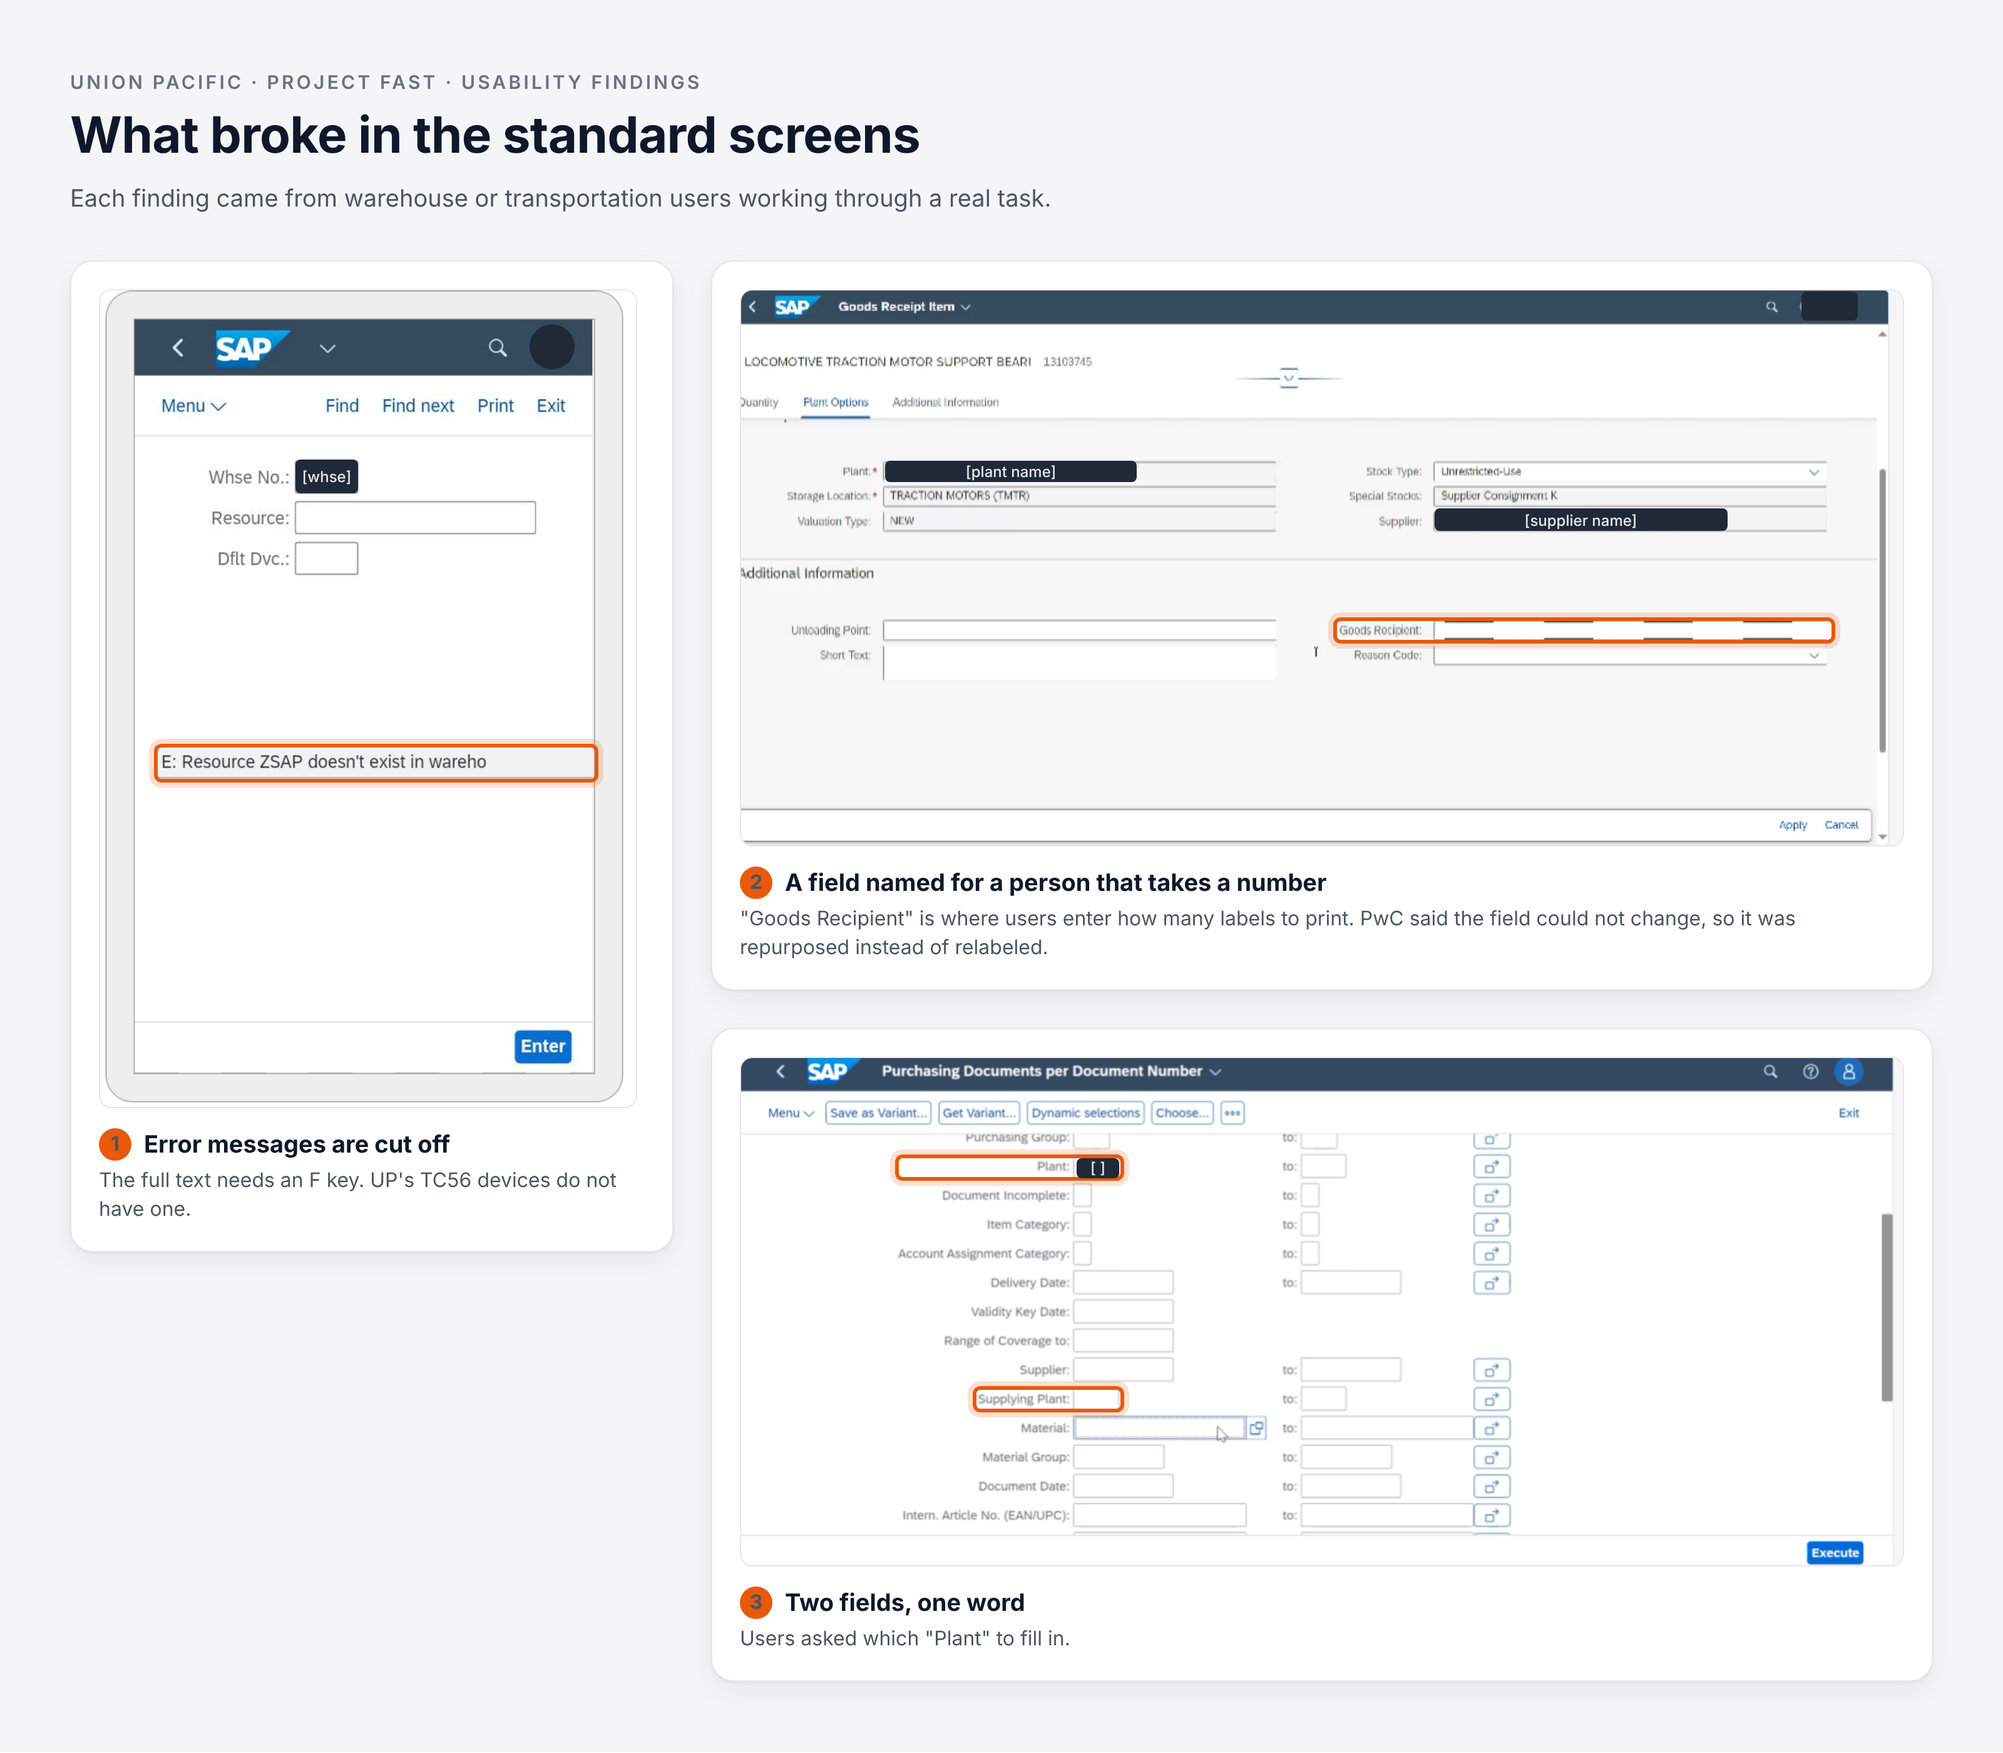
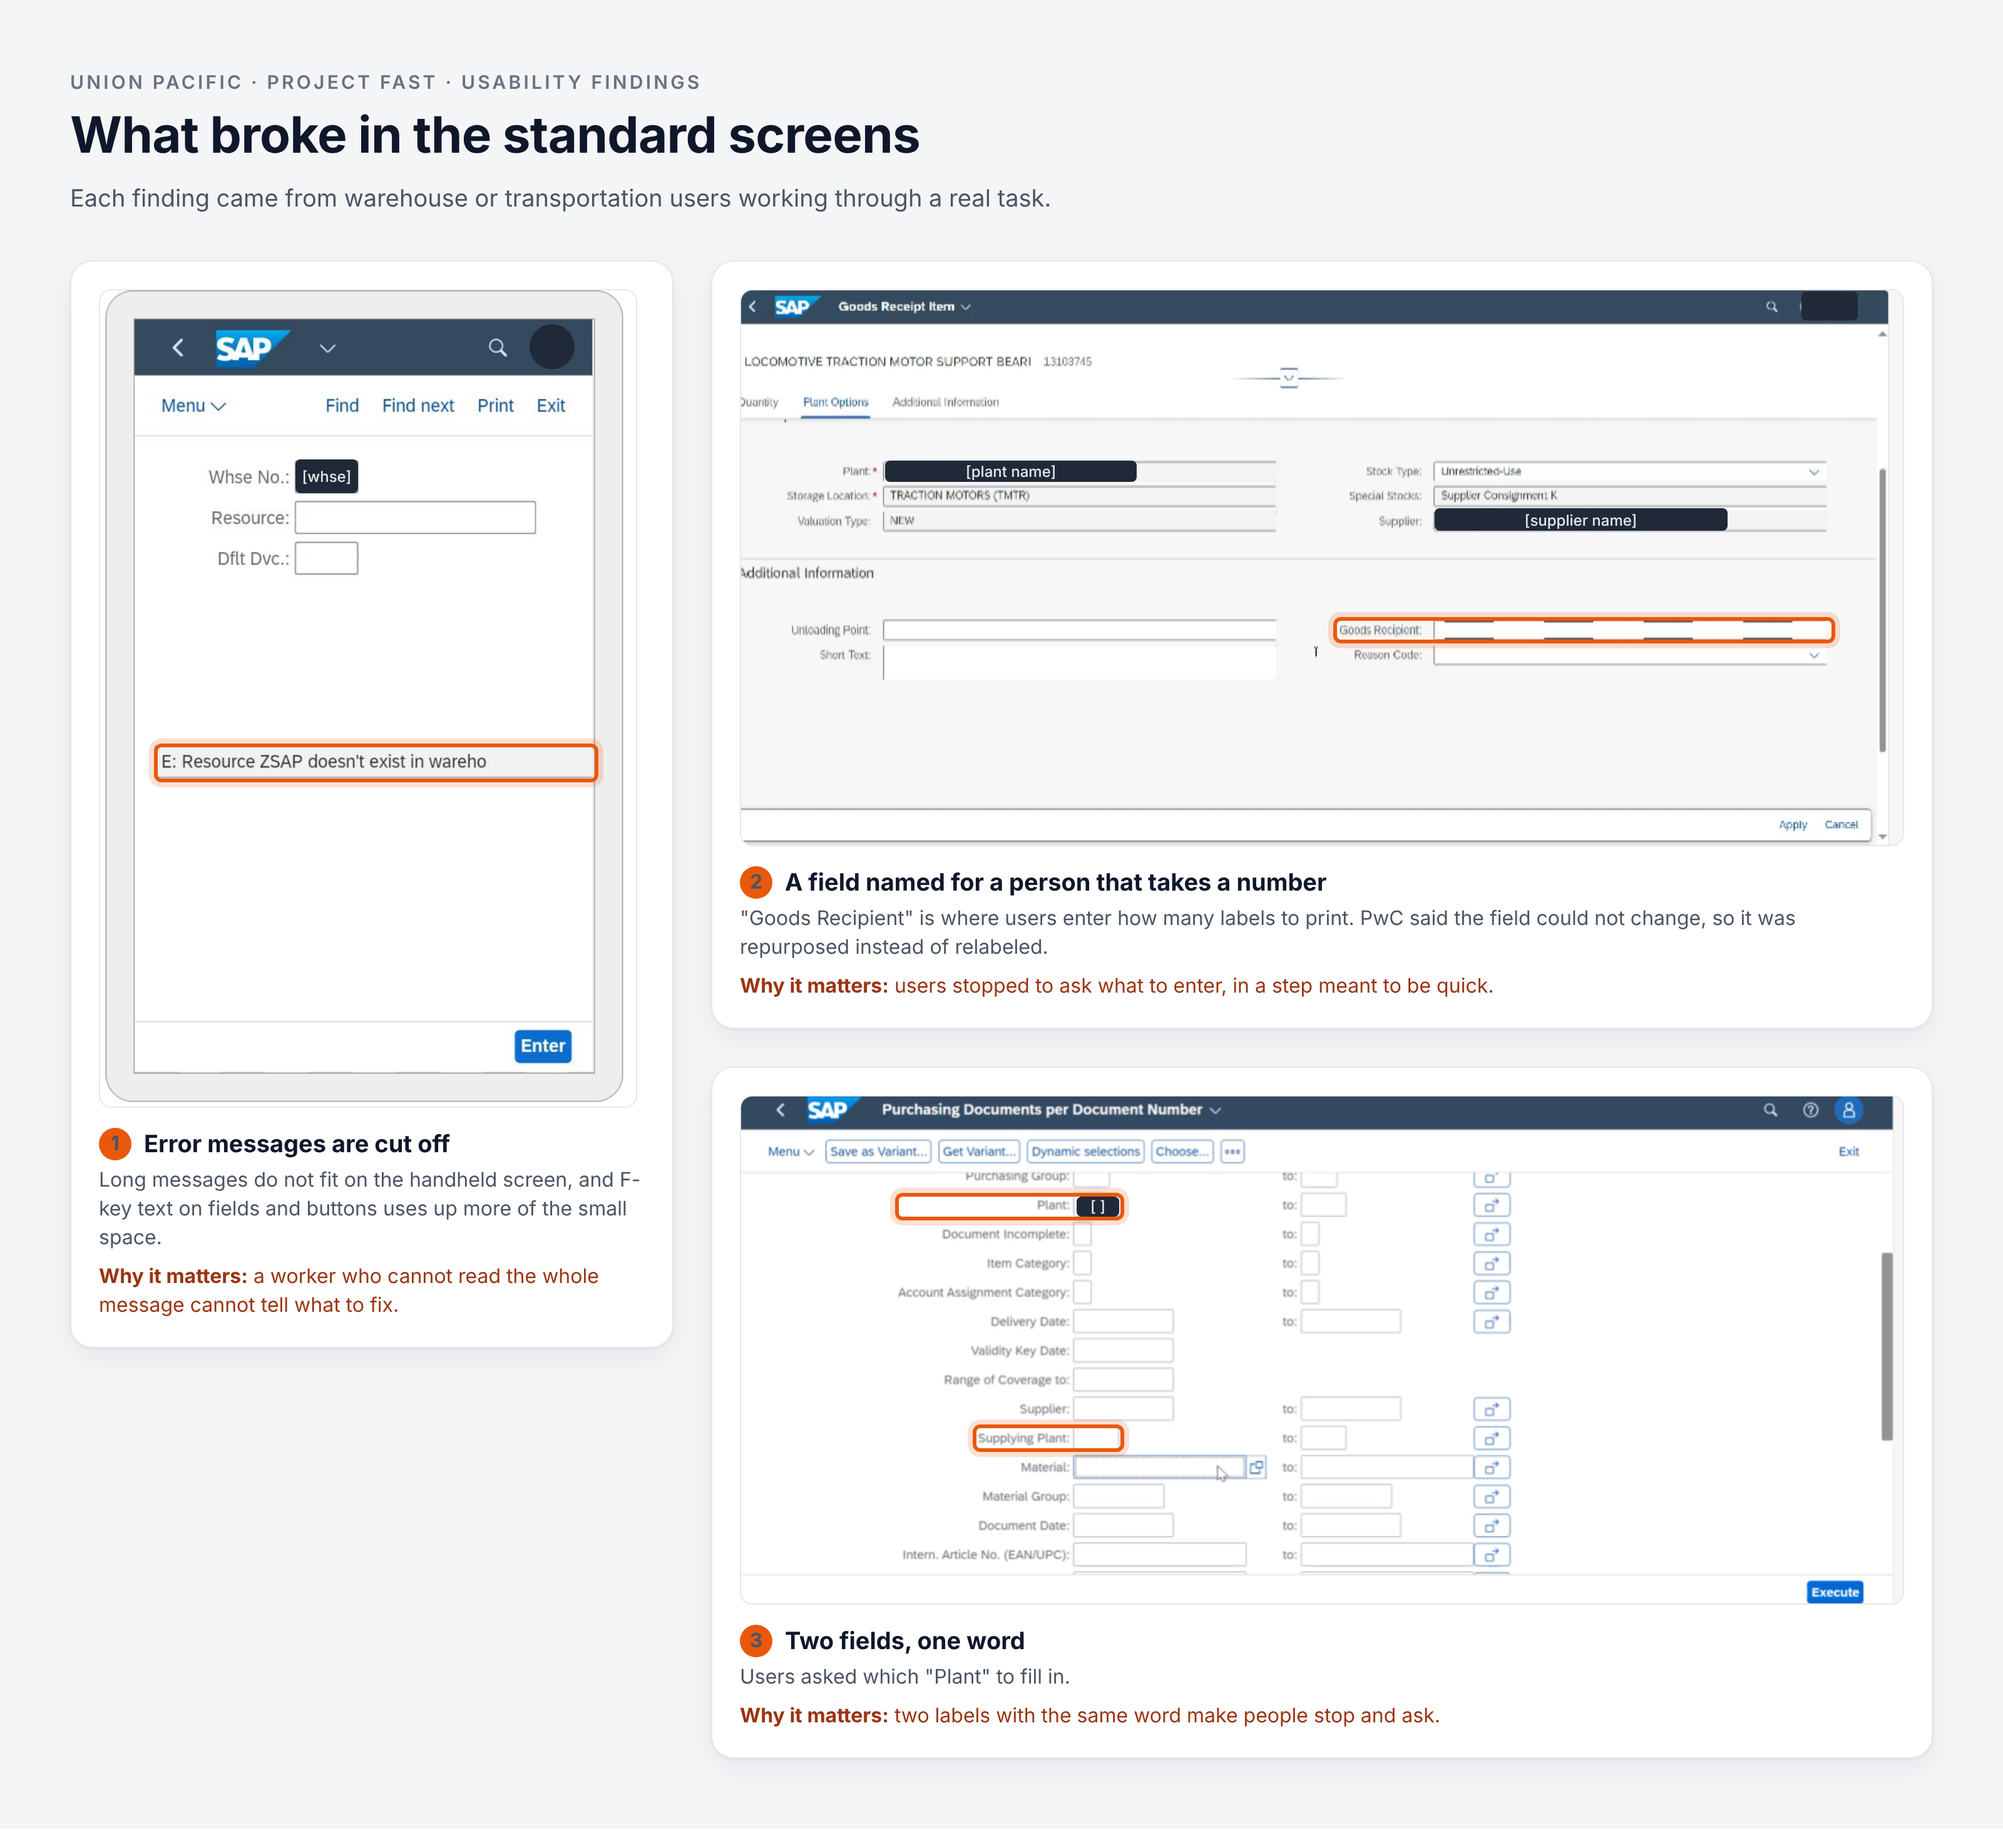
Annotate UP.com and handheld screens, shrink two images, correct F-key wording
Adds numbered annotations with rationale to the handheld screen, UP.com home
page and supplier pages. Adds a {small} alt-text marker for narrow images and
shrinks the TSD gallery image. Rewords the F-key finding to match what Chris
observed (the F-key text took up room on fields and buttons) and adds a why
it matters line to each usability finding.

Claude-Session: https://claude.ai/code/session_01PLhoRoBwiVgjMNW8FTri2r

diff --git a/lib/case-studies.ts b/lib/case-studies.ts
@@ -134,7 +134,7 @@ export const projectImages: Record<string, { src: string; alt: string; small?: b
     { src: '/assets/union-pacific/photos/FW-warehouse.jpg', alt: 'Fort Worth warehouse field research' },
     { src: '/assets/union-pacific/photos/Zebra-viewing.jpg', alt: 'Zebra handheld device research' },
     { src: '/assets/union-pacific/Process-flow-mapping.png', alt: 'Supply chain process flow mapping' },
-    { src: '/assets/union-pacific/TSD.png', alt: 'Technical specification document' },
+    { src: '/assets/union-pacific/TSD.png', alt: 'Technical specification document', small: true },
     { src: '/assets/union-pacific/Fort Worth testing (1).png', alt: 'Fort Worth usability testing' },
     { src: '/assets/union-pacific/Zebra-screenshot.png', alt: 'SAP Zebra interface screenshot', small: true },
     { src: '/assets/union-pacific/Existing Supplier page.jpg', alt: 'Existing supplier page design' },

diff --git a/components/MarkdownRenderer.tsx b/components/MarkdownRenderer.tsx
@@ -42,12 +42,15 @@ const components = {
   ),
   img: ({ src, alt, title }: React.ImgHTMLAttributes<HTMLImageElement>) => {
     if (!src) return null;
+    // Add {small} to the end of the alt text to render a narrow image, for tall phone screens.
+    const isSmall = /\{small\}\s*$/.test(alt ?? '');
+    const cleanAlt = (alt ?? '').replace(/\s*\{small\}\s*$/, '');
     return (
       <figure className="not-prose my-10">
-        <div className="rounded-xl overflow-hidden border border-[#E5E5E5] shadow-sm bg-[#F3F2EF]">
+        <div className={`rounded-xl overflow-hidden border border-[#E5E5E5] shadow-sm bg-[#F3F2EF] ${isSmall ? 'max-w-[300px] mx-auto' : ''}`}>
           <ZoomableImage
             src={String(src)}
-            alt={alt ?? ''}
+            alt={cleanAlt}
             width={1200}
             height={800}
             className="w-full h-auto"

diff --git a/content/case-studies/union-pacific.md b/content/case-studies/union-pacific.md
@@ -62,9 +62,13 @@ What I would look at next: testing the scroll with a full 2,500-line contract in
 
 Warehouse staff used handheld scanners that ran standard SAP screens. I visited three warehouses, in Roseville, Fort Worth and Chicago, to watch the work where it happened. I connected a handheld to a laptop and recorded real sessions on the floor, then broke each recording into steps in FigJam. I presented those findings to the warehouse leads in a working session, and they placed their own notes on the board as we reviewed it. The gap was clear: the standard screens left out information the workers needed to do the job.
 
-![A standard SAP screen on a warehouse handheld](/assets/union-pacific/photos/SAP-erp-ui.jpg "A standard SAP screen on a warehouse handheld. Labels are abbreviated, fields are small, and most of the screen sits empty.")
+![A standard SAP screen on a warehouse handheld, with three problems marked {small}](/assets/union-pacific/sap-handheld-annotated.jpg "A standard SAP screen on a warehouse handheld, photographed in the field.")
 
-Two sets of evidence backed the case. PwC presented its handheld designs in recurring design review meetings, and I reviewed them before anything was built. In the December 2023 session I asked why the text fields were so small for long strings of digits, why screens showed F keys when our Zebra devices have none, and whether some screens carried more information than a handheld can display. PwC said it took note. Then in usability testing, I presented five findings from warehouse and transportation users working through real scenarios, kept separate from user acceptance testing, which only checks that the product meets functional requirements.
+1. **Small, cut-off fields.** Workers enter long strings of digits, and several fields show only part of the value.
+2. **A row of F-key buttons.** The cryptic labels take up room on the fields and buttons, and they were not needed on a screen where scanning fills the fields.
+3. **Most of the screen is empty.** The space was there. The layout just did not use it.
+
+Two sets of evidence backed the case. PwC presented its handheld designs in recurring design review meetings, and I reviewed them before anything was built. In the December 2023 session I asked why the text fields were so small for long strings of digits, why the F-key labels took up so much room on the text fields and buttons, and whether some screens carried more information than a handheld can display. PwC said it took note. Then in usability testing, I presented five findings from warehouse and transportation users working through real scenarios, kept separate from user acceptance testing, which only checks that the product meets functional requirements.
 
 ![Three of the five usability findings, annotated: a cut-off error message, a mislabeled field and a duplicated label](/assets/union-pacific/handheld-usability-findings.png "Recreation. Client names and data removed. Screens are from the usability findings I presented.")
 
@@ -95,7 +99,12 @@ From there I also designed the custom items, the cases where standard SAP did no
 
 The archived home page led with the company: a mosaic of employee portraits, a news carousel, then round icon buttons. Price My Shipment sat well below the fold. The new home page puts Ship With Us, Price My Shipment, Track My Shipment, and Rail Safety directly under the hero, and mobile shows them first. I designed the experience mobile first, then web.
 
-![Archived UP.com home page compared with the new home page and its mobile view](/assets/union-pacific/up-com-homepage.png)
+![Archived UP.com home page compared with the new home page and its mobile view, with four design decisions marked](/assets/union-pacific/up-com-homepage-annotated.png)
+
+1. **Before:** Price My Shipment was a small button well below the fold, under a mosaic of employee portraits and a news carousel.
+2. **After, desktop:** Price My Shipment, Track My Shipment and Rail Safety sit directly under the hero, with Ship With Us beside the welcome.
+3. **After, mobile:** the same tasks come first, as full-width rows a thumb can hit. I designed mobile first, then web.
+4. **Utility bar:** Investors, Careers and Contact Us moved up and out of the main path, and Customer Log-In became a button.
 
 The order came from the people who know the business. I asked the subject matter experts what goals they were trying to help customers accomplish. They knew the business needs and the documents customers have to fill out, and that set the priorities. I gave UX feedback on how to arrange those items on each page, and built the pages in the design system.
 
@@ -105,7 +114,13 @@ Each page I designed with the content team also got a content matrix, so the des
 
 The supplier pages followed the same pattern, which is where the design system earned its keep: new pages assembled from known pieces instead of being drawn from scratch.
 
-![The existing supplier page mockup beside the built Supplier Advancement and Expansion page, with the shared design system pieces called out](/assets/union-pacific/supplier-pages.png)
+![The existing supplier page mockup beside the built Supplier Advancement and Expansion page, with five design decisions marked](/assets/union-pacific/supplier-pages-annotated.png)
+
+1. **The mockup hero.** A layout and component test, mostly placeholder text.
+2. **Statistic tiles and a carousel.** The mockup used them. The program page did not need them, so I left them out. That is the point of a system: use the pieces the content calls for.
+3. **Hero band with a breadcrumb.** It places the page under About Us, Suppliers, New Supplier. The navigation path is what the content matrix asked for on every page.
+4. **Image and text rows.** They carry the program history and use the same row pattern as the mockup.
+5. **Contact Us band.** It gives suppliers one clear next step: connect with a supply representative.
 
 ## What came of it {nav=Outcome}
 
